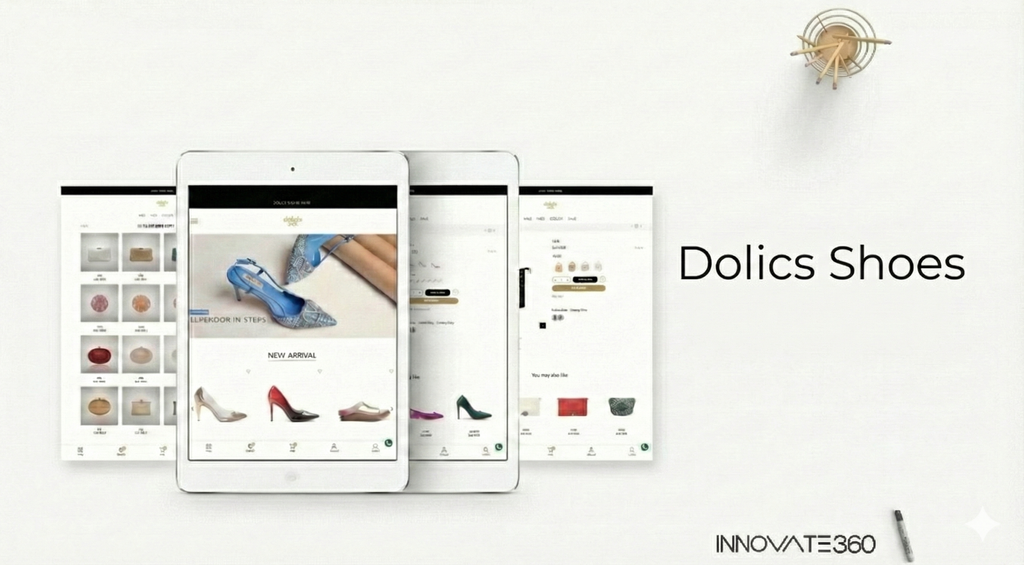
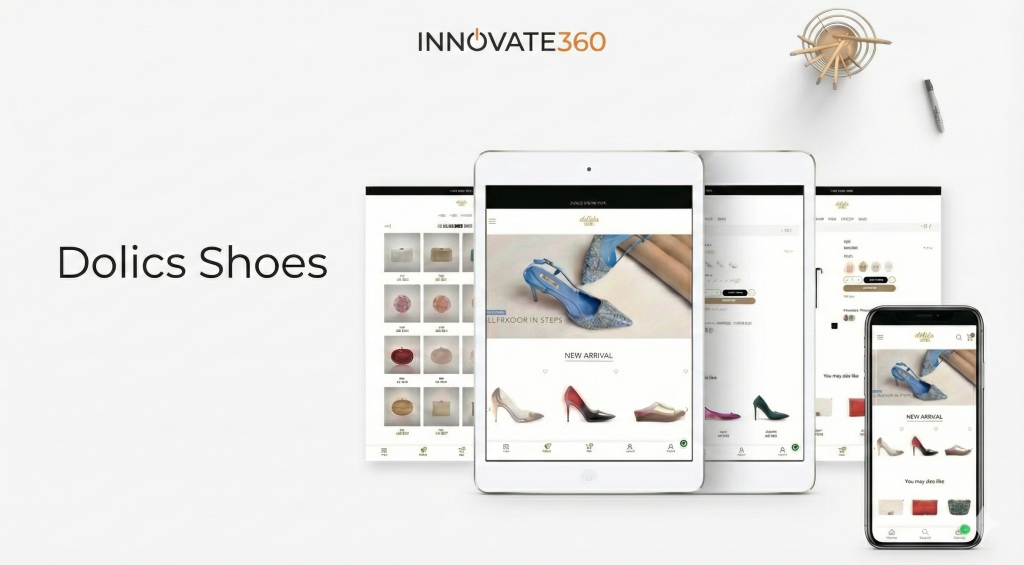
fix

diff --git a/src/components/ArchitectureShowcase/ArchitectureShowcase.css b/src/components/ArchitectureShowcase/ArchitectureShowcase.css
@@ -10,14 +10,12 @@
   width: 100%;
 }
 
-.arch__right .img-wrapper:last-child {
+/* .arch__right .img-wrapper:last-child {
   top: 49%;
   height: 380px;
-}
-
-/* .arch__right .img-wrapper:nth-last-child(2) {
-  top: 50%;
 } */
+
+
 
 
 .arch {
